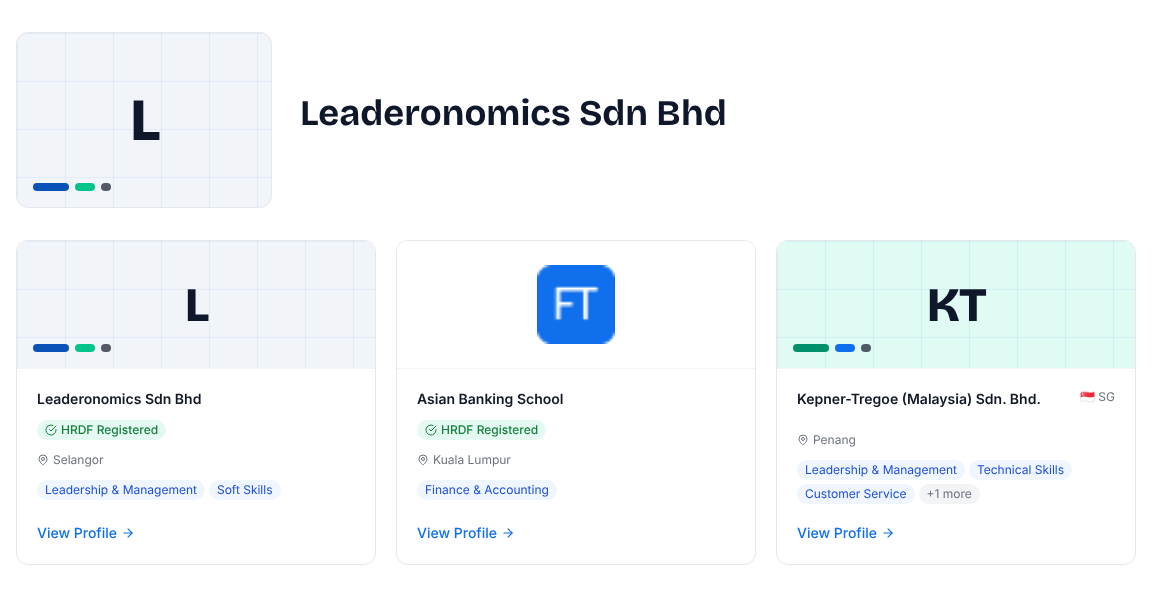
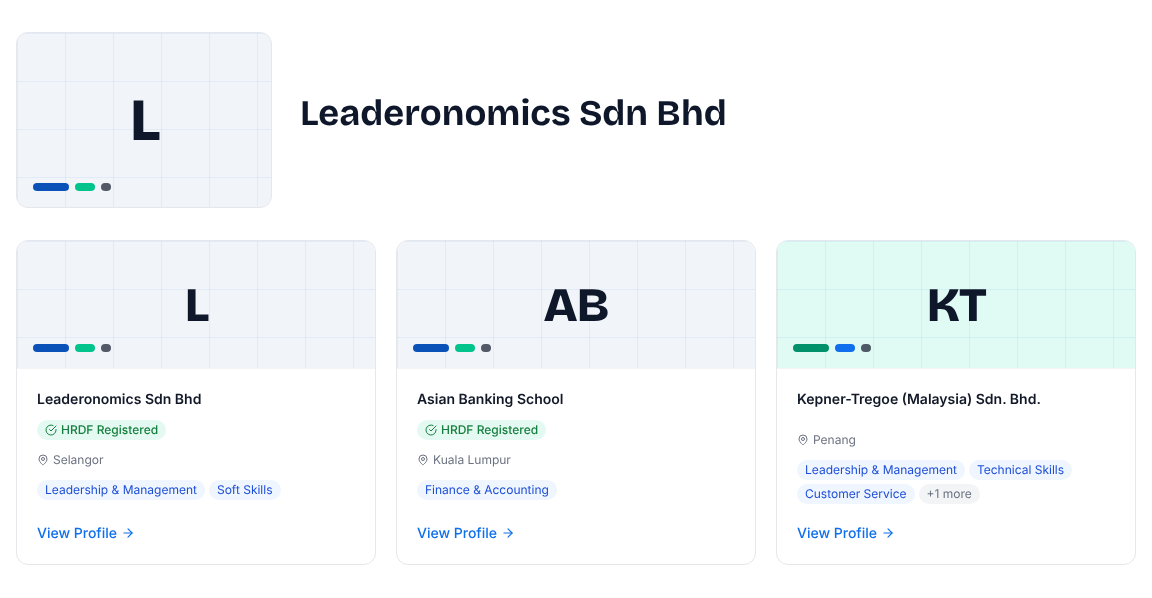
findtraining: art-director fixes (one container, hero chip, US row)
- One container (.ft-container, max-w-7xl px-4/6/8) for header, every homepage section and footer.
- Hero chip moved to the empty top-left, 2x2, lists only hubs with a training body (US has none in
  lib/countries.ts, so it is left out, not invented); stray pen mark removed from the flipchart.
- US country card shows its hub line instead of an empty subtitle; stats row centres; CTA H2 sentence case.
- Card sample QA props fixed (no site icon as a logo, MY not SG for Penang); samples were QA-only.
image-density PASS: hero 38% at 1280 and 375, 9 visuals; no overflow at 375 or 320.

Claude-Session: https://claude.ai/code/session_01Rv3nrotK7PECwtWeSiUTNL

Changed region(s): [[0.4375, 0.4214, 0.5625, 0.602], [0.3438, 0.5719, 0.4375, 0.602], [0.9375, 0.6321, 0.9688, 0.6923]]

diff --git a/apps/findtraining/src/app/page.tsx b/apps/findtraining/src/app/page.tsx
@@ -78,8 +78,8 @@ export default async function GlobalHomePage() {
       />
 
       {/* ── Hero (VISUAL-KIT.md homepage plan step 1) ─────────────────── */}
-      <section className="bg-white px-4 pb-12 pt-6 sm:pt-14 lg:pb-16">
-        <div className="mx-auto grid max-w-7xl grid-cols-1 items-center gap-8 lg:grid-cols-[minmax(0,5fr)_minmax(0,7fr)] lg:gap-12">
+      <section className="bg-white pb-12 pt-6 sm:pt-14 lg:pb-16">
+        <div className="ft-container grid grid-cols-1 items-center gap-8 lg:grid-cols-[minmax(0,5fr)_minmax(0,7fr)] lg:gap-12">
           <div>
             <p className="text-sm font-semibold uppercase tracking-[0.08em] text-brand-teal-dark">
               Corporate training directory
@@ -117,8 +117,8 @@ export default async function GlobalHomePage() {
       </section>
 
       {/* ── Free HRDF Tools strip ──────────────────────────────────────── */}
-      <section className="py-6 px-4 bg-white border-b border-gray-100">
-        <div className="max-w-5xl mx-auto">
+      <section className="py-6 bg-white border-b border-gray-100">
+        <div className="ft-container">
           <div className="flex flex-col sm:flex-row items-center gap-3 sm:gap-4">
             <p className="text-xs font-semibold uppercase tracking-wide text-gray-500 sm:mr-2 flex-shrink-0">
               Free HRDF Tools
@@ -148,8 +148,8 @@ export default async function GlobalHomePage() {
       </section>
 
       {/* ── Country Cards ───────────────────────────────────────────────── */}
-      <section className="bg-white px-4 py-16">
-        <div className="mx-auto max-w-6xl">
+      <section className="bg-white py-16">
+        <div className="ft-container">
           <h2 className="ft-blocks ft-blocks-center text-center font-display text-3xl font-bold text-brand-ink sm:text-4xl">
             Browse by country
           </h2>
@@ -172,10 +172,12 @@ export default async function GlobalHomePage() {
                   <h3 className="font-display text-2xl font-bold text-brand-ink group-hover:text-brand-blue">
                     {country.name}
                   </h3>
-                  {country.regulatoryBody && (
+                  {country.regulatoryBody ? (
                     <p className="mt-1 text-base text-gray-700">
                       {country.regulatoryBody.shortName} · {country.regulatoryBody.levyName}
                     </p>
+                  ) : (
+                    <p className="mt-1 line-clamp-2 text-base text-gray-700">{country.heroSubline}</p>
                   )}
                   <p className="mt-auto pt-4 text-base font-semibold text-brand-blue group-hover:underline">
                     Browse {country.name} providers →
@@ -189,8 +191,8 @@ export default async function GlobalHomePage() {
 
       {/* ── Browse by Category ──────────────────────────────────────────── */}
       {topCategories.length > 0 && (
-        <section className="py-16 px-4 bg-gray-50 border-t border-gray-100">
-          <div className="max-w-5xl mx-auto">
+        <section className="py-16 bg-gray-50 border-t border-gray-100">
+          <div className="ft-container">
             <h2 className="text-2xl font-bold text-gray-900 mb-3 text-center">Browse by Training Category</h2>
             <p className="text-gray-500 text-center mb-10 text-sm">
               Training categories from IT and leadership to safety and finance.
@@ -227,8 +229,8 @@ export default async function GlobalHomePage() {
       )}
 
       {/* ── Why FindTraining ────────────────────────────────────────────── */}
-      <section className="border-t border-gray-100 bg-brand-mist px-4 py-16">
-        <div className="mx-auto max-w-6xl">
+      <section className="border-t border-gray-100 bg-brand-mist py-16">
+        <div className="ft-container">
           <h2 className="ft-blocks ft-blocks-center text-center font-display text-3xl font-bold text-brand-ink sm:text-4xl">
             Why HR teams use FindTraining
           </h2>
@@ -263,14 +265,15 @@ export default async function GlobalHomePage() {
       </section>
 
       {/* ── Provider CTA ────────────────────────────────────────────────── */}
-      <section className="py-16 px-4 bg-brand-blue text-white text-center">
+      <section className="py-16 bg-brand-blue text-white text-center">
+        <div className="ft-container">
         <div className="max-w-2xl mx-auto">
           {foundingOpen && (
             <span className="inline-block bg-white/20 text-white text-xs font-semibold px-3 py-1 rounded-full mb-4 tracking-wide uppercase">
               {foundingSlotsLeft} of {founding.total} founding slots remaining
             </span>
           )}
-          <h2 className="text-3xl font-bold mb-4">Are You a Training Provider?</h2>
+          <h2 className="text-3xl font-bold mb-4">Are you a training provider?</h2>
           <p className="text-blue-100 mb-8">
             {foundingOpen
               ? `List your programmes and reach HR managers across Malaysia, Singapore, the UK, Australia, and the US. First ${founding.total} providers lock RM 100/mo for life.`
@@ -283,12 +286,13 @@ export default async function GlobalHomePage() {
             {foundingOpen ? 'Become a Founding Member' : 'List Your Company'}
           </Link>
         </div>
+        </div>
       </section>
 
       {/* ── Global Trust Signals ────────────────────────────────────────── */}
-      <section className="py-14 px-4 bg-white border-t border-gray-100">
-        <div className="max-w-4xl mx-auto">
-          <div className="grid grid-cols-1 sm:grid-cols-3 gap-8 text-center">
+      <section className="py-14 bg-white border-t border-gray-100">
+        <div className="ft-container">
+          <div className="grid grid-cols-1 gap-8 text-center sm:auto-cols-fr sm:grid-flow-col">
             {stats && (
               <div>
                 <p className="text-3xl font-bold text-gray-900 mb-1">{stats.total.toLocaleString()}+</p>

diff --git a/apps/findtraining/src/components/home/HeroArt.tsx b/apps/findtraining/src/components/home/HeroArt.tsx
@@ -46,7 +46,6 @@ function TrainingRoom() {
         <rect x="146" y="276" width="44" height="34" rx="5" fill={TEAL_LIGHT} />
         <rect x="210" y="276" width="36" height="34" rx="5" fill={BLUE} stroke={BLUE_DARK} />
         <path d="M128 293h14M138 288l5 5-5 5M192 293h14M202 288l5 5-5 5" />
-        <path d="M232 340l-10 6M222 346l3 4" stroke={BLUE} />
 
         {/* desk */}
         <rect x="280" y="400" width="342" height="14" rx="3" fill="#fff" />
@@ -79,7 +78,7 @@ function TrainingRoom() {
 
 const HUBS = ['MY', 'SG', 'GB', 'AU', 'US']
   .map((code) => COUNTRY_CONFIGS[code])
-  .filter(Boolean)
+  .filter((c) => c && c.regulatoryBody)
 
 export function HeroArt() {
   return (
@@ -92,17 +91,17 @@ export function HeroArt() {
       <TrainingRoom />
 
       {/* Fragment: the country hubs and their training bodies (from lib/countries.ts) */}
-      <div className="absolute bottom-5 left-5 hidden rounded-xl border border-gray-200 bg-white p-4 shadow-sm sm:block">
+      <div className="absolute left-5 top-5 hidden rounded-xl border border-gray-200 bg-white px-4 py-3 shadow-sm sm:block">
         <p className="flex items-center gap-2 text-sm font-semibold text-brand-ink">
-          <Search className="h-4 w-4 text-brand-blue" aria-hidden="true" /> Country hubs
+          <Search className="h-4 w-4 text-brand-blue" aria-hidden="true" /> Training bodies by country
         </p>
-        <ul className="mt-2 space-y-1.5">
+        <ul className="mt-2 grid grid-cols-2 gap-x-5 gap-y-1.5">
           {HUBS.map((c) => (
             <li key={c.code} className="flex items-center gap-2 text-sm text-gray-700">
               <span className="inline-flex h-6 w-9 items-center justify-center rounded bg-brand-mist text-xs font-bold text-brand-ink">
                 {c.code}
               </span>
-              {c.regulatoryBody ? c.regulatoryBody.shortName : c.name}
+              {c.regulatoryBody?.shortName}
             </li>
           ))}
         </ul>

diff --git a/apps/findtraining/src/app/layout.tsx b/apps/findtraining/src/app/layout.tsx
@@ -71,7 +71,7 @@ export default function RootLayout({
         <div className="flex flex-col min-h-screen bg-white">
           {/* ── Navigation ─────────────────────────────────────────────── */}
           <header className="border-b border-gray-100 bg-white sticky top-0 z-50">
-            <div className="max-w-7xl mx-auto px-4 sm:px-6 lg:px-8">
+            <div className="ft-container">
               <div className="flex items-center justify-between h-16">
                 {/* Logo */}
                 <Link
@@ -128,7 +128,7 @@ export default function RootLayout({
 
           {/* ── Footer ───────────────────────────────────────────────── */}
           <footer className="border-t border-gray-100 bg-gray-50 mt-16">
-            <div className="max-w-7xl mx-auto px-4 sm:px-6 lg:px-8 py-8">
+            <div className="ft-container py-8">
               <div className="flex flex-col sm:flex-row items-center justify-between gap-4 text-sm text-gray-500">
                 <p>© {new Date().getFullYear()} FindTraining.com</p>
                 <div className="flex flex-wrap items-center justify-center gap-x-6 gap-y-2">

diff --git a/apps/findtraining/src/app/globals.css b/apps/findtraining/src/app/globals.css
@@ -27,6 +27,10 @@
 }
 
 @layer components {
+  /* One container for header, homepage sections and footer */
+  .ft-container {
+    @apply mx-auto w-full max-w-7xl px-4 sm:px-6 lg:px-8;
+  }
   .ft-blocks {
     position: relative;
     padding-bottom: 0.9rem;
